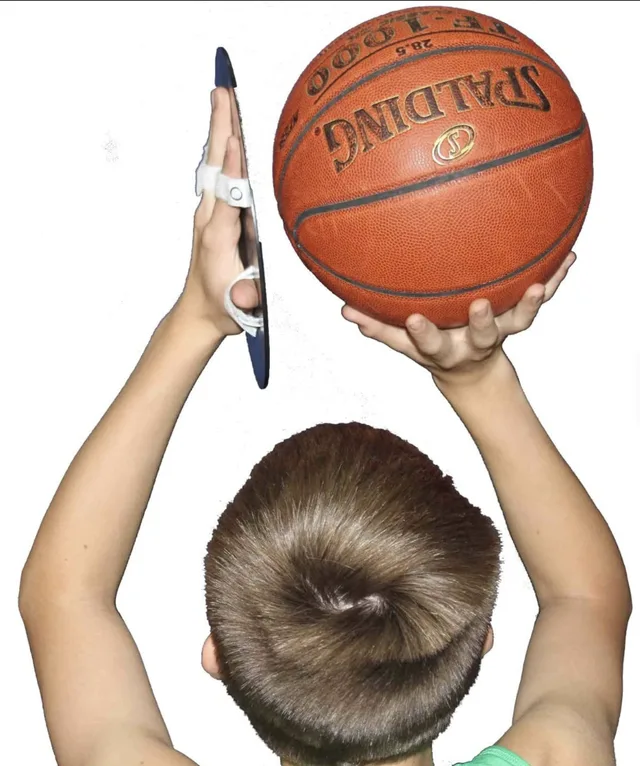
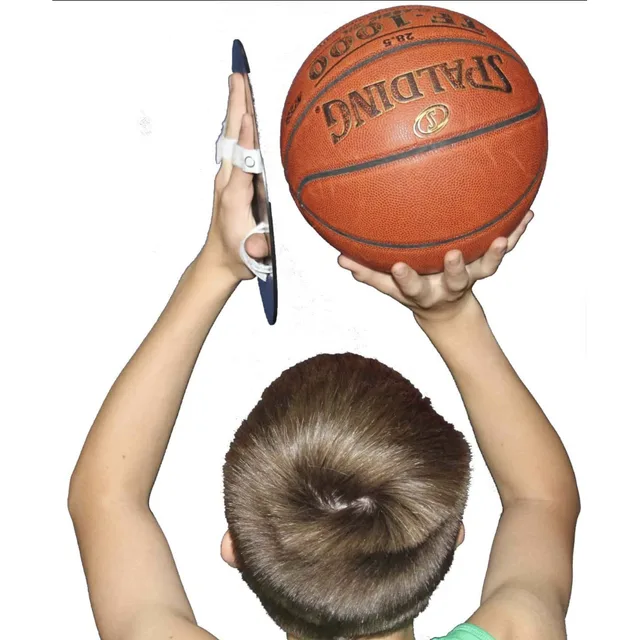
feat: rim photos on the gear shelf, and multi-image cards
Two pictures on the CA rim listing, which needed the card to hold more than
one image.

CA only. The US slot in that position is a throw-and-attach net for a rimless
hoop — a different product — so a shared photo would have advertised the
Canadian item to American visitors.

The mounted shot is cropped out of a seller banner. The original had marketing
type across the top half, headlined "Soild" for "Solid", which is not going on
a shop page; only the photograph beneath it is kept, and it is the better
asset anyway.

Layout: the tile widens to 2:1 for two photos rather than subdividing a square
one, so every cell stays square. Splitting a square tile made each cell 1:2 and
object-cover ate half the width of the product render. Now nothing is cropped
and no tile colour shows through, which matters because these images do not
share a background — one is on white, one on grey, one is full-bleed sky — so
letterboxing would have read as a seam on some cards and not others. Sources
are padded to square at export, never at render time; that rule is written into
the type so the next image follows it.

`alt` moved inside each image object rather than sitting beside it, so a photo
cannot be added without describing it.

Images are used with the rights-holder's permission (owner's call). They are
NOT Amazon product images, which the file still forbids.

Verified: tsc, eslint, next build clean. /shop rendered from a production
[…]

diff --git a/app/shop/gear.ts b/app/shop/gear.ts
@@ -47,17 +47,25 @@ export type Listing = {
   /** Why a LearnHoops player would want it. Honest, first-person, no hype. */
   blurb: string
   /**
-   * Optional photo, as a path under /public. NEVER an Amazon product image —
+   * Optional photos, as paths under /public. NEVER an Amazon product image —
    * those are the seller's and are not licensed to us (see the header above).
    * Only our own photography, or a picture we have written permission to use.
    *
    * Per LISTING rather than per slot, because the two stores stock different
    * products on four of the six slots, and a photo of the CA item on a US card
    * would be a misleading ad.
+   *
+   * Every file must be SQUARE. The shelf fills its tile edge to edge, so a
+   * non-square image would either get cropped or leave a band of tile colour
+   * showing — and these do not share a background (one is on white, one on
+   * grey, one is a full-bleed photo of sky), so such a band would read as a
+   * seam on some cards and not others. Pad to square against the image's OWN
+   * background when exporting, never at render time.
+   *
+   * `alt` is part of the pair rather than a sibling field so an image cannot
+   * be added without describing it.
    */
-  image?: string
-  /** Describes the photo for screen readers. Required whenever `image` is set. */
-  imageAlt?: string
+  images?: { src: string; alt: string }[]
 }
 
 /**
@@ -98,9 +106,12 @@ export const GEAR: GearItem[] = [
       // direction as an illustration of the technique, not of the exact item.
       // If either listing is ever swapped for the board in the picture, this
       // comment can go.
-      image: '/gear/off-hand-trainer.webp',
-      imageAlt:
-        'A young player shooting, seen from behind, with a training board strapped to the guide hand so it cannot push the ball.',
+      images: [
+        {
+          src: '/gear/off-hand-trainer.webp',
+          alt: 'A young player shooting, seen from behind, with a training board strapped to the guide hand so it cannot push the ball.',
+        },
+      ],
       blurb:
         'A padded disc your guide-hand fingers slip into, so that hand can steer the ball but never push it. Two of the eighteen things we grade are Guide Hand Placement and Guide Hand Follow Through, and a guide-hand push is the hardest fault to feel while you are making it. Comes with goggles that hide the ball from your eyes for dribbling work.',
     },
@@ -108,9 +119,12 @@ export const GEAR: GearItem[] = [
       asin: 'B0FFH3XCJZ',
       name: 'Off-Hand Shooting Trainer',
       // Same photo and the same caveat as the CA listing above.
-      image: '/gear/off-hand-trainer.webp',
-      imageAlt:
-        'A young player shooting, seen from behind, with a training board strapped to the guide hand so it cannot push the ball.',
+      images: [
+        {
+          src: '/gear/off-hand-trainer.webp',
+          alt: 'A young player shooting, seen from behind, with a training board strapped to the guide hand so it cannot push the ball.',
+        },
+      ],
       blurb:
         'A hand-placement corrector that stops the guide hand interfering with the ball, so it can steer but never push. Two of the eighteen things we grade are Guide Hand Placement and Guide Hand Follow Through, and a guide-hand push is the hardest fault to feel while you are making it. Ships with a 5.3" shooting aid as well.',
     },
@@ -165,6 +179,21 @@ export const GEAR: GearItem[] = [
     CA: {
       asin: 'B0D8RF772B',
       name: 'Replacement Rim & Net',
+      // Used with the rights-holder's permission (owner's call, 2026-08-26).
+      // The mounted shot is cropped from a seller banner: the original had
+      // marketing type across the top half, including "Soild" for "Solid", so
+      // only the photograph below it is kept.
+      // CA only — the US slot is a throw-and-attach net, a different product.
+      images: [
+        {
+          src: '/gear/rim-net-product.webp',
+          alt: 'A black basketball rim with a red, white and blue net already laced onto it.',
+        },
+        {
+          src: '/gear/rim-net-mounted.webp',
+          alt: 'The same rim and net fitted to a glass backboard outdoors, seen from below against a blue sky.',
+        },
+      ],
       blurb:
         'A rim with the net already laced onto it, for the driveway hoop whose net rotted off two winters ago. Worth fixing before you film anything: on a bare rim, a clean make and a rattle-out look identical on video.',
     },

diff --git a/app/shop/GearWeLike.tsx b/app/shop/GearWeLike.tsx
@@ -59,16 +59,31 @@ export default async function GearWeLike() {
                     purpose — an off-white would show a seam. Fixed aspect and
                     object-contain so an uncropped portrait photo cannot make
                     one card taller than its neighbours on the shelf. */}
-                {item.image && (
-                  <span className="block relative w-full aspect-square rounded-xl bg-white overflow-hidden">
-                    <Image
-                      src={item.image}
-                      alt={item.imageAlt ?? ''}
-                      fill
-                      loading="lazy"
-                      sizes="(min-width: 640px) 320px, 78vw"
-                      className="object-contain"
-                    />
+                {/* The tile widens instead of subdividing when there are two
+                    photos, which keeps every CELL square. The files are square
+                    too, so each fills its cell exactly: nothing is cropped and
+                    no tile colour shows through — the images do not share a
+                    background, so any letterboxing would read as a seam. */}
+                {item.images && item.images.length > 0 && (
+                  <span
+                    className={`grid gap-1 w-full rounded-xl overflow-hidden ${
+                      item.images.length > 1
+                        ? 'grid-cols-2 aspect-[2/1]'
+                        : 'grid-cols-1 aspect-square'
+                    }`}
+                  >
+                    {item.images.slice(0, 2).map((img) => (
+                      <span key={img.src} className="relative block h-full w-full">
+                        <Image
+                          src={img.src}
+                          alt={img.alt}
+                          fill
+                          loading="lazy"
+                          sizes="(min-width: 640px) 160px, 39vw"
+                          className="object-cover"
+                        />
+                      </span>
+                    ))}
                   </span>
                 )}
                 <span className="text-zinc-400 text-xs font-semibold tracking-wider uppercase">
